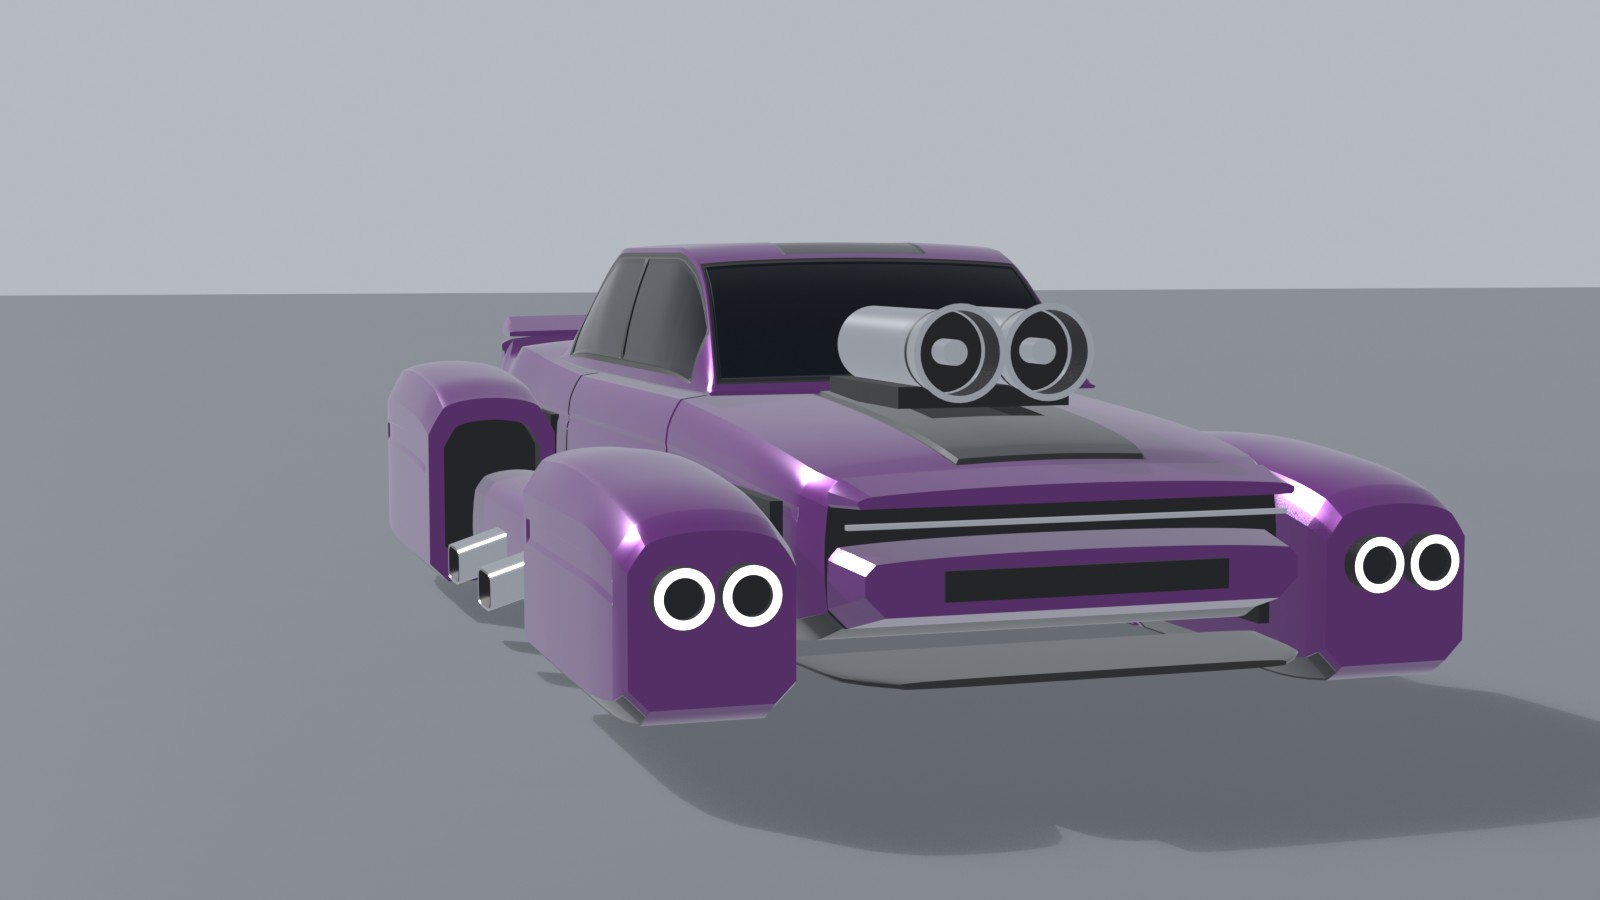
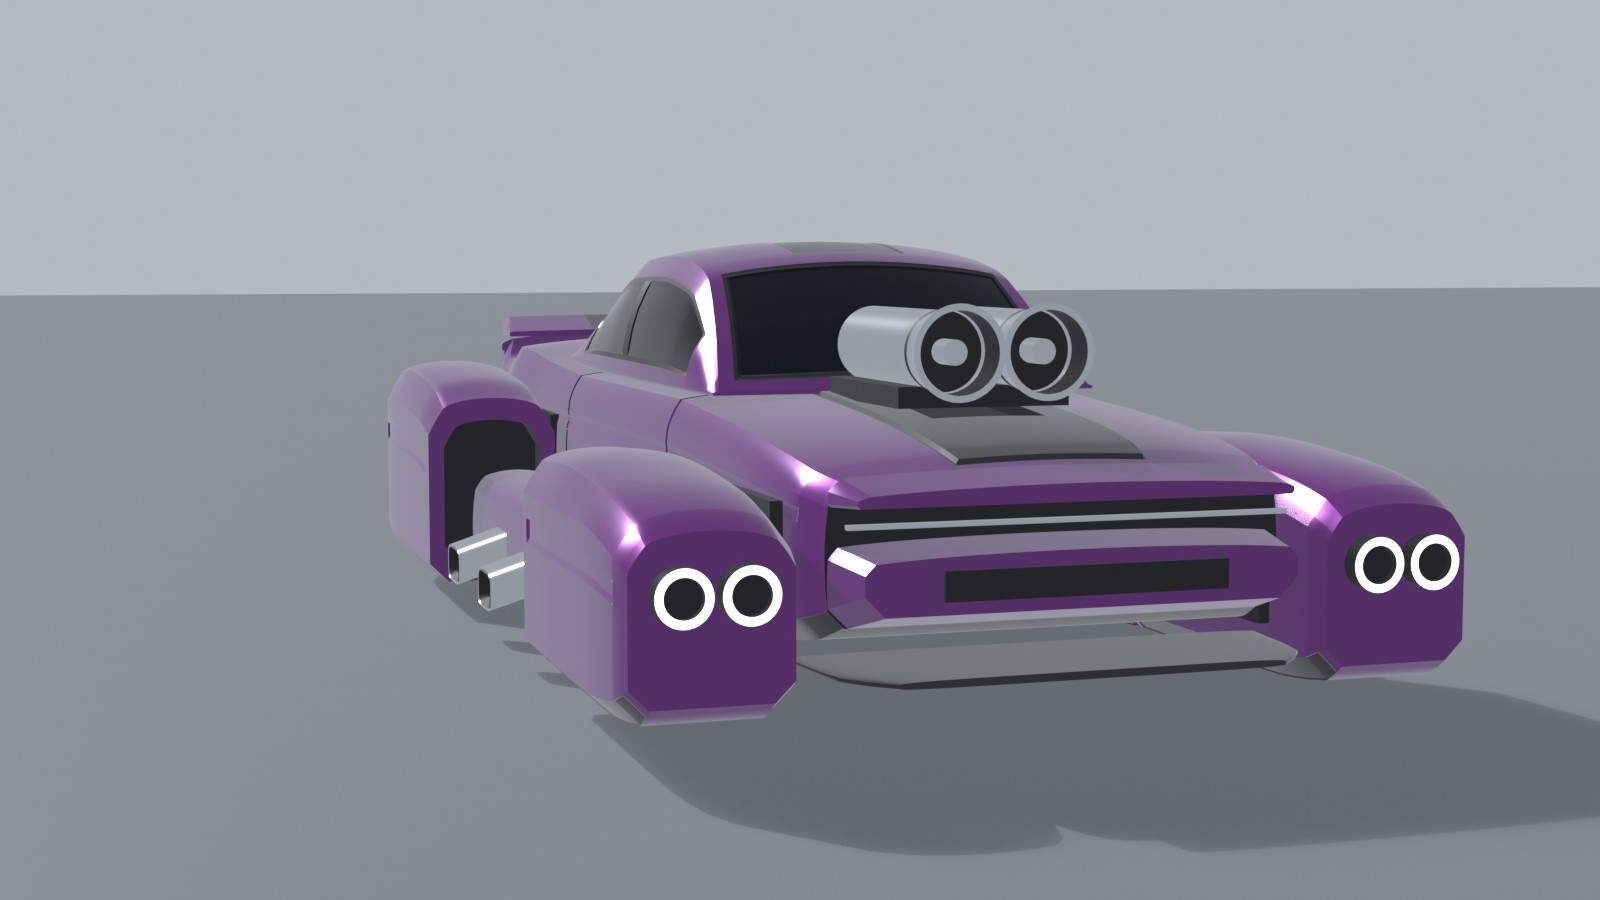
mesh: Brawler pass 10: arched coupe roof tapered in plan, thick body-colour pillars, black centre pillar

Changed region(s): [[0.3438, 0.2489, 0.6562, 0.4356]]

diff --git a/scripts/exotic_category/categories/muscle/mesh/muscle_cars.py b/scripts/exotic_category/categories/muscle/mesh/muscle_cars.py
@@ -108,23 +108,28 @@ def f_cockpit():
     window down to a short deck."""
     K.begin("F", "COCKPIT")
     tub()
-    gh = Hull([(-6.0, dict(w=3.55, yb=3.1, yt=3.2, ys=3.14, tum=0.12, drop=0.02)),
-               (-3.5, dict(w=3.66, yt=5.4, tum=0.62)),
-               (-2.4, dict(yt=5.7)), (1.9, dict(yt=5.7)),
-               (3.0, dict(w=3.66, yt=5.5, tum=0.68)),
-               (6.3, dict(w=3.5, yb=3.15, yt=3.3, ys=3.2, tum=0.2, drop=0.03))],
-              w=3.68, yb=3.1, ys=3.3, rb=0.04, tum=0.65, drop=0.12, wcf=0.8, d2=0.03, crown=0.04)
-    # Each opening is a black surround with the glass set inside it, so the pillars read as slim black
-    # frames and the side glass is one long opening split by a thin pillar, as on the real car.
+    # One continuous arc from cowl to deck, crowned across the roof and rounded at the roof edge, and
+    # narrower toward the back in plan: a low arched coupe roof, not a box.
+    gh = Hull([(-6.0, dict(w=3.5, yb=3.1, yt=3.2, ys=3.14, tum=0.12, drop=0.02, crown=0.02)),
+               (-4.6, dict(w=3.6, yt=4.5, tum=0.55, drop=0.2)),
+               (-3.2, dict(w=3.62, yt=5.45, tum=0.78)),
+               (-1.2, dict(w=3.62, yt=5.72, tum=0.82)),
+               (1.0, dict(w=3.58, yt=5.66, tum=0.85)),
+               (2.8, dict(w=3.5, yt=5.35, tum=0.9)),
+               (4.6, dict(w=3.4, yt=4.4, tum=0.7, drop=0.22)),
+               (6.3, dict(w=3.3, yb=3.15, yt=3.3, ys=3.2, tum=0.2, drop=0.03, crown=0.02))],
+              w=3.6, yb=3.1, ys=3.3, rb=0.04, tum=0.8, drop=0.3, wcf=0.7, d2=0.06, crown=0.09)
+    # Body-colour pillars with real width, as on the real car: a thick screen pillar and rear pillar, a
+    # roof rail over the side glass, and a black centre pillar. Each glass sits in a thin black surround.
     gh.build("cabin", "primary", regions=[
-        R(-5.88, -3.5, 4.04, 6.0, "detail", 0.015),    # windscreen surround
-        R(-5.78, -3.62, 4.1, 6.0, "glass", 0.04),      # windscreen
-        R(-5.0, 4.95, 3.02, 3.96, "detail", 0.015),    # side glass surround, one opening
-        R(-4.88, -0.2, 3.07, 3.91, "glass", 0.04),     # door glass, follows the screen pillar
-        R(-0.02, 4.8, 3.07, 3.91, "glass", 0.04),      # quarter glass, follows the roof down
-        R(3.12, 6.12, 4.06, 6.0, "detail", 0.015),     # rear window surround
-        R(3.22, 6.02, 4.12, 6.0, "glass", 0.04),       # rear window
-        R(-3.3, 2.9, 5.2, 6.0, "secondary", 0.02)])    # roof stripe
+        R(-5.8, -3.5, 4.22, 6.0, "detail", 0.015),     # windscreen surround
+        R(-5.72, -3.6, 4.27, 6.0, "glass", 0.04),      # windscreen
+        R(-4.7, 4.3, 3.06, 3.8, "detail", 0.015),      # side glass surround, one opening
+        R(-4.6, -0.35, 3.1, 3.76, "glass", 0.04),      # door glass
+        R(0.1, 4.2, 3.1, 3.76, "glass", 0.04),         # quarter glass
+        R(3.3, 6.0, 4.22, 6.0, "detail", 0.015),       # rear window surround
+        R(3.4, 5.9, 4.27, 6.0, "glass", 0.04),         # rear window
+        R(-2.9, 2.6, 5.25, 6.0, "secondary", 0.02)])   # roof stripe
 
 
 def f_nose():
